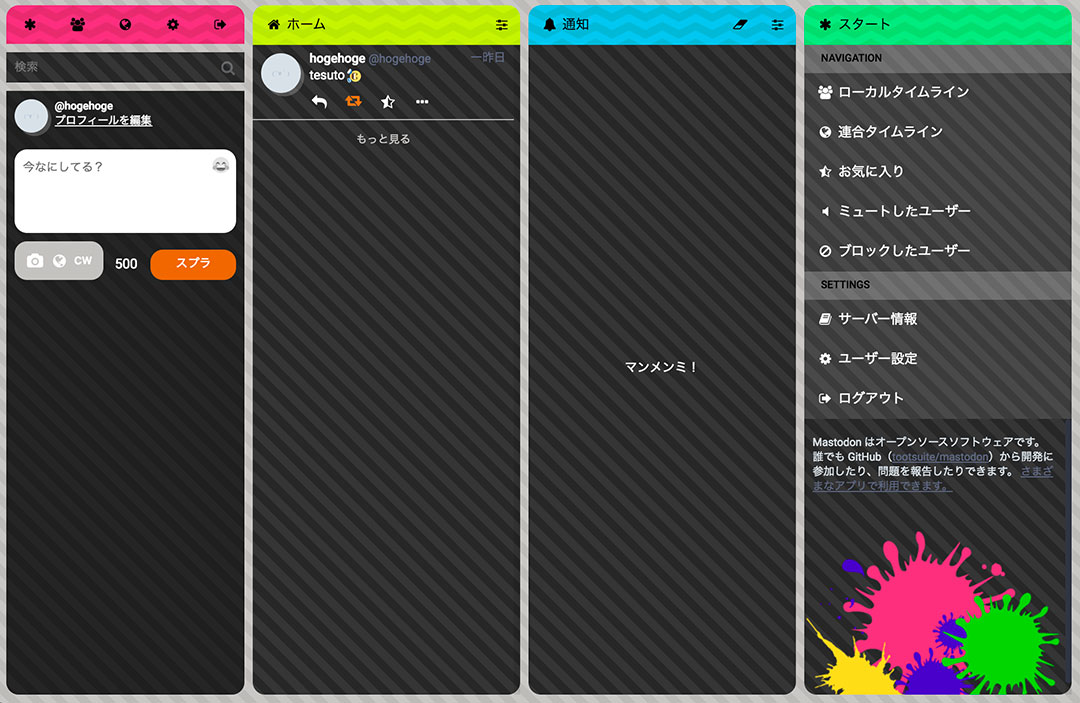
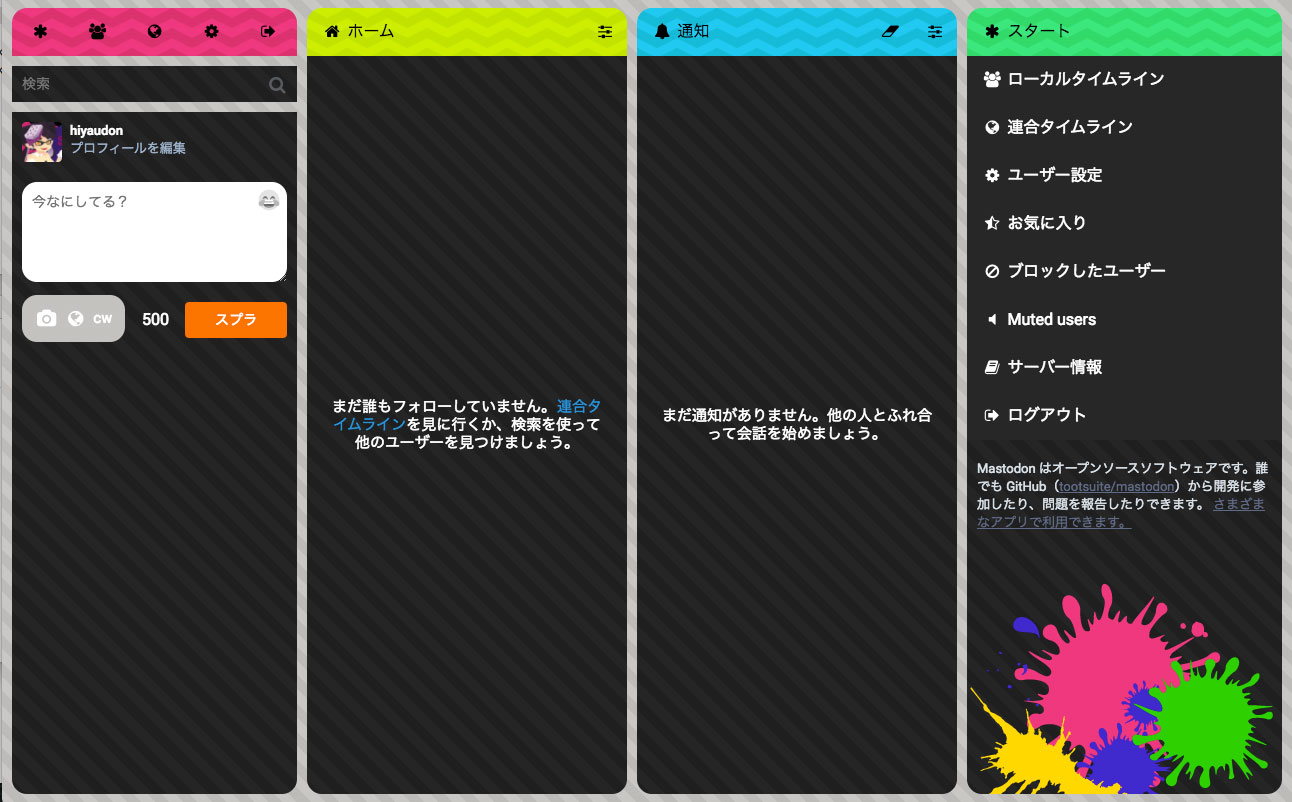
V1.3 -IDが長いとツールチップ内で省略される問題を解決 -0件時の文言変更を削除

Changed region(s): [[0.0, 0.0, 1.0, 1.0]]

diff --git a/src/css/ika-style.scss b/src/css/ika-style.scss
@@ -172,18 +172,6 @@ $transition: all 100ms ease-in;
 	color: $white_1;
 }
 
-.empty-column-indicator {
-	span {
-		font-size: 0;
-		display: block;
-		margin: 0 auto;
-		&:before {
-			content: 'マンメンミ！';
-			font-size: 15px;
-		}
-	}
-}
-
 /* 'TOOT' button */
 .button {
 	background: $orange_1;
@@ -347,7 +335,7 @@ button.icon-button i.fa-retweet:hover {
 
 /* culumn */
 .column-header.active .fa {
-    color: $white_1;
+    color: $black_1;
 }
 
 .getting-started__wrapper {
@@ -415,6 +403,28 @@ button.icon-button i.fa-retweet:hover {
 	&:active {
 		border-bottom-color: $orange_1;
 	}
+}
+
+// tooltip
+.dropdown--active .dropdown__content:before {
+	right: 95px;
+	left: initial;
+}
+
+.dropdown--active > .dropdown__content.dropdown__right {
+	right: 10px;
+}
+
+.dropdown--active > .dropdown__content > ul {
+	left: 0;
+}
+
+.dropdown--active > .dropdown__content > ul > li > a {
+	overflow: initial;
+	text-overflow: initial;
+	white-space: normal;
+	width: auto;
+	max-width: 235px;
 }
 
 
